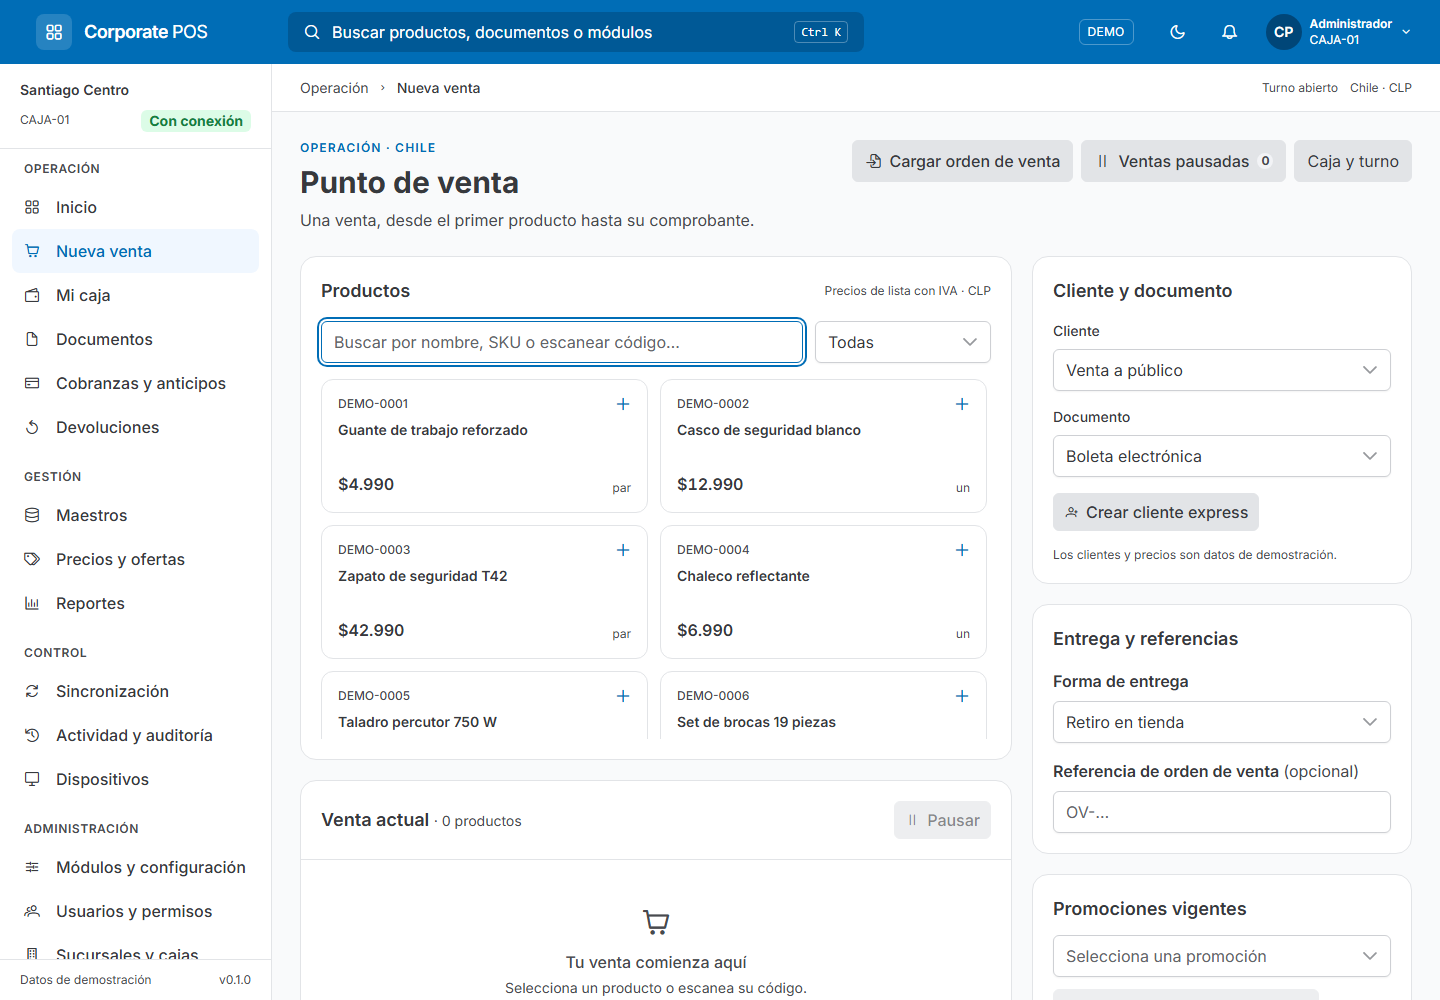
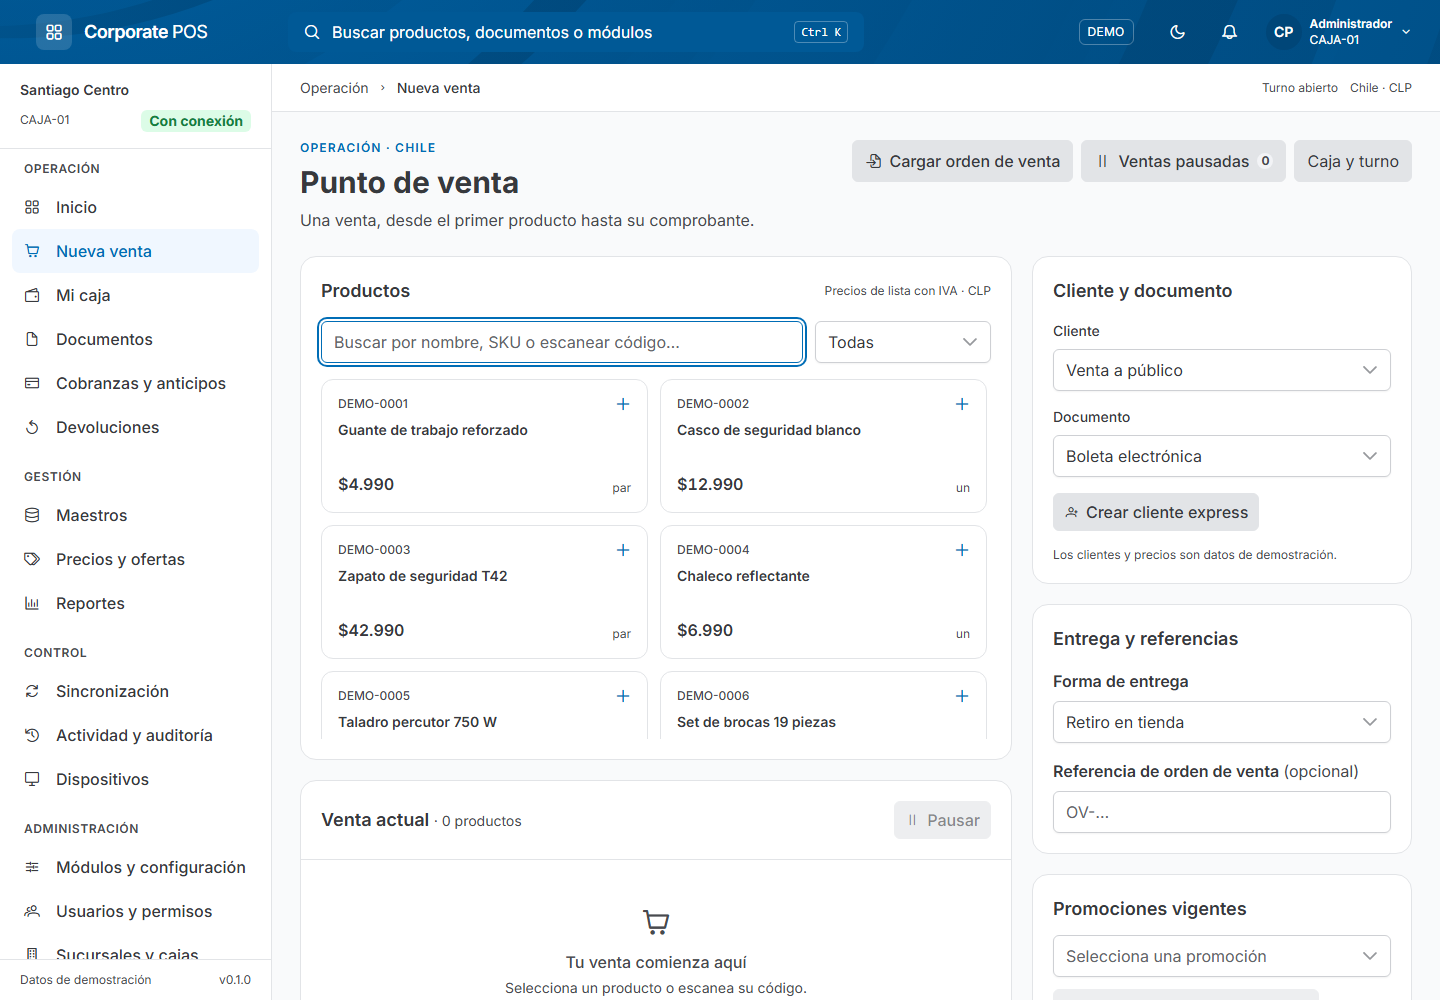
fix(ui): restore original prime-showcase header artwork

Changed region(s): [[0.0, 0.0, 1.0, 0.062]]

diff --git a/apps/pos-web/src/styles.css b/apps/pos-web/src/styles.css
@@ -28,6 +28,13 @@ html {
 body {
   margin: 0;
 }
+/* Original prime-showcase header artwork and framing (6ad8d3d), bundled for offline use. */
+.brand-header-bg {
+  background-image: url('/images/tornado.svg');
+  background-size: cover;
+  background-position: center;
+  background-repeat: no-repeat;
+}
 * {
   box-sizing: border-box;
 }

diff --git a/apps/pos-web/src/app/shell/shell.component.html b/apps/pos-web/src/app/shell/shell.component.html
@@ -6,7 +6,7 @@
     >Saltar al contenido</a
   >
   <header
-    class="shrink-0 bg-primary-500 text-white h-16 flex items-center gap-1 sm:gap-3 px-2 sm:px-4 lg:px-6"
+    class="brand-header-bg shrink-0 bg-primary-500 text-white h-16 flex items-center gap-1 sm:gap-3 px-2 sm:px-4 lg:px-6"
   >
     <p-button
       icon="pi pi-bars"

diff --git a/docs/quality-review.md b/docs/quality-review.md
@@ -10,6 +10,8 @@ La primera entrega tenía una base modular razonable, pero no justificaba afirma
 
 Se compararon el preset, `DESIGN.md`, las recetas PrimeNG, los estilos ejecutados y el formulario renderizado del Storybook original. Los presets de origen y de la primera entrega eran equivalentes: la divergencia venía de reglas CSS y variantes elegidas en los templates. El repositorio de referencia se mantuvo sin modificaciones.
 
+El encabezado recupera además `public/images/tornado.svg` de prime-showcase en `6ad8d3d0c3c171aa4495f4c280b94982415449e5`, antes de su sustitución por fondo liso. Se conserva el SVG original con la paleta Implementos, sus opacidades internas y el encuadre `cover` / `center`. Se incluye como recurso local de la web y del paquete Tauri, sin solicitudes externas ni capas que intercepten los controles.
+
 | Hallazgo                                | Corrección y criterio                                                                                                                                           |
 | --------------------------------------- | --------------------------------------------------------------------------------------------------------------------------------------------------------------- |
 | Header primary700 en vez de primary500  | Azul de marca `#006db6`, altura 64 px. Textos y avatar conservan contraste en claro y oscuro.                                                                   |
